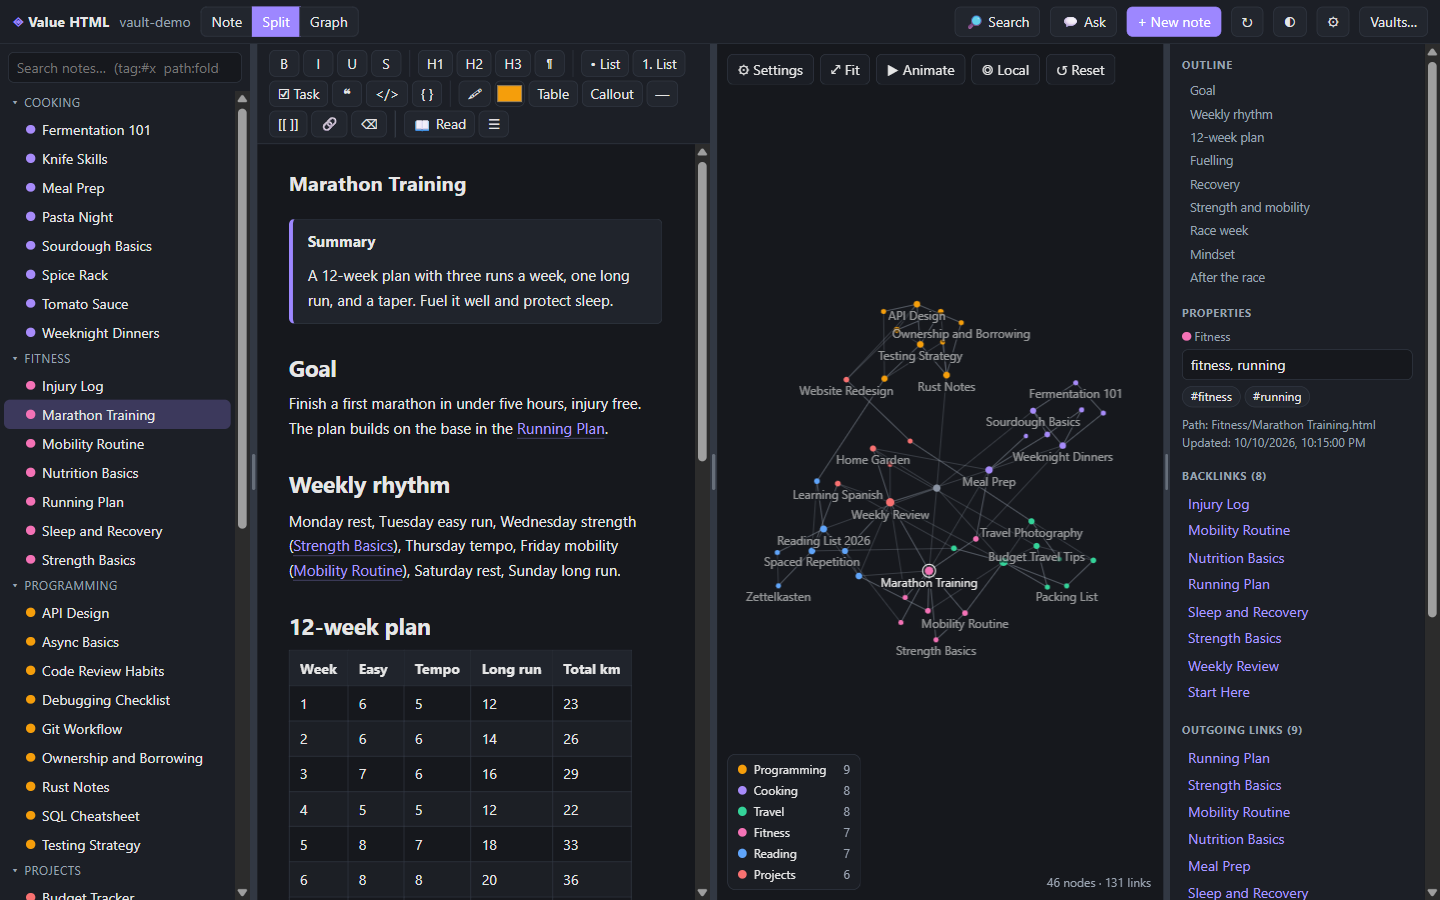
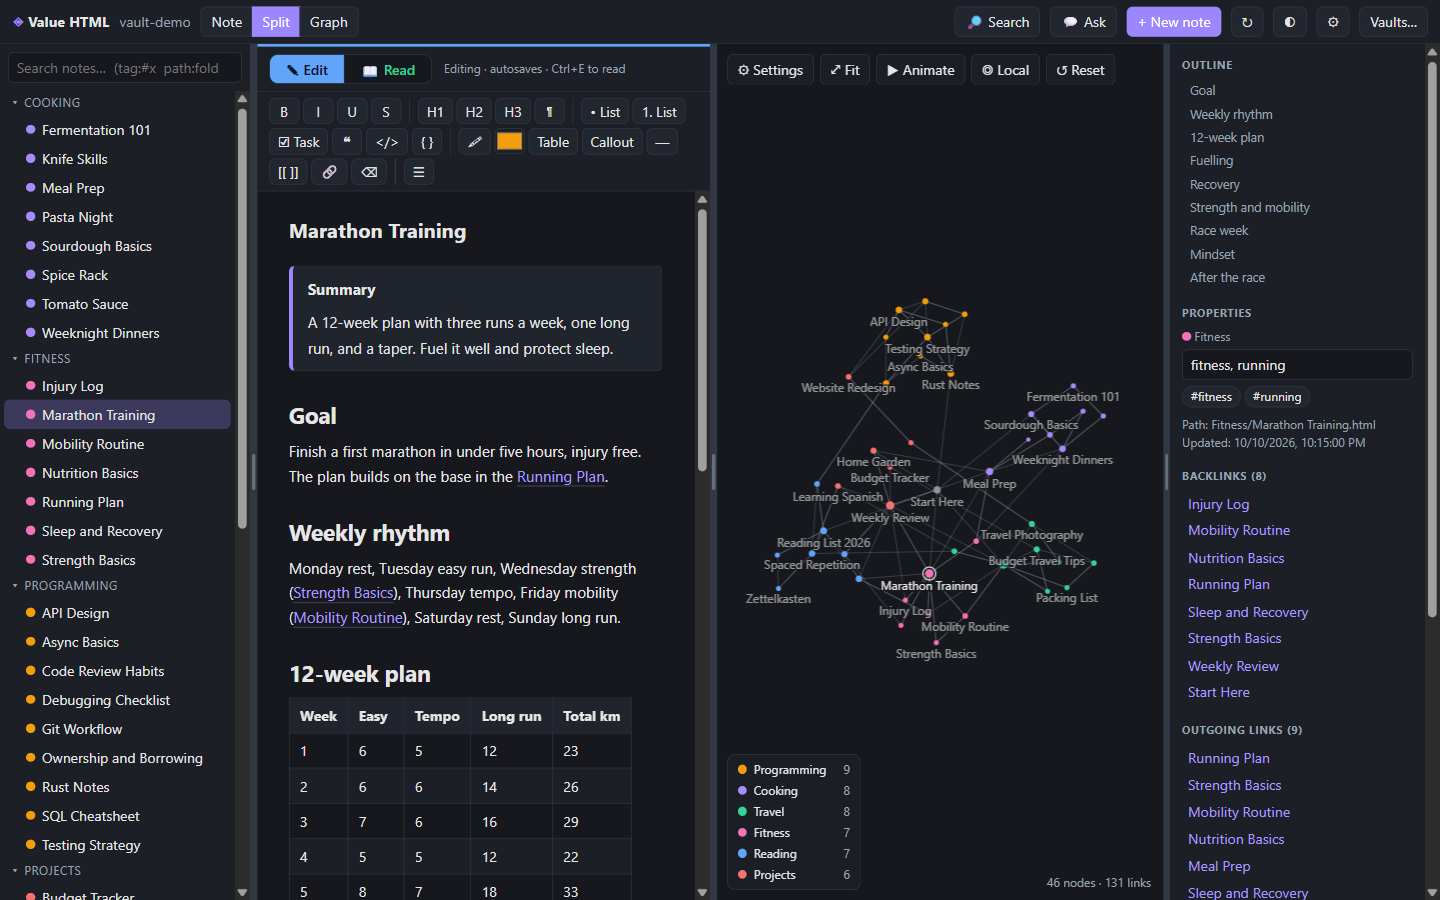
Edit | Read switch: colored, always in the same place
The Read button used to sit at the end of the wrapping toolbar and Edit at the start of the reader bar, so
the way to change mode moved around. Now a segmented Edit | Read switch has its own row at the top of the
note pane, in exactly the same position in both modes (verified to the pixel, also in a narrow pane).

- Edit is blue, Read is green; the lit one is filled, the other shows its own color as text.
- A stripe in the mode's color runs along the top of the pane, and a short hint says what is happening.
- Colors have light and dark variants; text on the lit buttons has >= 4.5:1 contrast in both themes
  (light green darkened to #047857 after measuring 3.8:1 on the first try).
- Works from the keyboard (Ctrl+E, or focus + Enter) and survives a restart.
- README: describe the switch, add an Edit | Read picture, retake the screenshots that showed the old buttons.

Verified in the real window: 22/22 new checks, and the 26-check reading suite still passes.

diff --git a/reading.js b/reading.js
@@ -116,6 +116,16 @@ function updateReadStats() {
   const s = HVFold.readingStats(rdEd().innerText);
   el.textContent = `${s.words.toLocaleString()} words · ~${s.minutes} min`;
 }
+/** Show which mode you are in: the switch, a colored stripe along the top of the pane, and a short hint. */
+function syncModeBar() {
+  const on = RD.on, edit = document.getElementById('mdEdit'), read = document.getElementById('mdRead');
+  if (!edit || !read) return;
+  edit.classList.toggle('on', !on); edit.setAttribute('aria-pressed', String(!on));
+  read.classList.toggle('on', on); read.setAttribute('aria-pressed', String(on));
+  const pane = document.getElementById('notePane');
+  pane.classList.toggle('mode-read', on); pane.classList.toggle('mode-edit', !on);
+  document.getElementById('mdHint').textContent = on ? 'Reading · read-only · Ctrl+E to edit' : 'Editing · autosaves · Ctrl+E to read';
+}
 function setReading(on, { silent = false } = {}) {
   if (on && !RD.on) flushSave();                          // save what you typed before locking the page
   RD.on = on;
@@ -124,7 +134,7 @@ function setReading(on, { silent = false } = {}) {
   document.getElementById('title').readOnly = on;
   if (!on) unfoldAll();                                   // never edit with hidden sections
   if (typeof closeLP === 'function') closeLP();
-  updateReadStats(); renderOutline();
+  syncModeBar(); updateReadStats(); renderOutline();
   try { localStorage.setItem('hv:reading', on ? '1' : '0'); } catch {}
   if (!silent) toast(on ? 'Reading mode · Ctrl+E to edit' : 'Editing', 1400);
 }
@@ -145,7 +155,6 @@ function initReading() {
   const bar = document.createElement('div');
   bar.id = 'readbar';
   bar.innerHTML = `
-    <button id="rdEdit" title="Back to editing (Ctrl+E)">✎ Edit</button><span class="sep"></span>
     <button id="rdSmaller" title="Smaller text">A−</button><button id="rdBigger" title="Larger text">A+</button>
     <select id="rdWidth" title="Line width"><option value="narrow">Narrow</option><option value="medium">Medium</option><option value="wide">Wide</option><option value="full">Full</option></select>
     <select id="rdLh" title="Line spacing"><option value="1.45">Tight</option><option value="1.7">Normal</option><option value="1.95">Relaxed</option></select>
@@ -158,17 +167,28 @@ function initReading() {
   const pop = document.createElement('div'); pop.id = 'outlinePop'; pop.hidden = true;
   document.body.appendChild(pop);
 
-  // edit-mode toolbar gets a way in
+  // The Edit | Read switch lives in its own row at the top of the note pane, so it is in exactly the same
+  // place in both modes (the toolbar below it wraps and the reader bar differs, so neither could hold it).
+  const mb = document.createElement('div');
+  mb.id = 'modebar';
+  mb.innerHTML = `<div class="modeswitch" role="group" aria-label="Mode">
+      <button id="mdEdit" type="button" title="Edit this note (Ctrl+E)">✎ Edit</button>
+      <button id="mdRead" type="button" title="Read this note (Ctrl+E)">📖 Read</button></div>
+    <span id="mdHint"></span>`;
+  document.getElementById('notePane').insertBefore(mb, document.getElementById('toolbar'));
+
+  // the writing toolbar gets an outline button
   const tb = document.getElementById('toolbar');
   const sep = document.createElement('span'); sep.className = 'sep'; tb.appendChild(sep);
-  for (const [label, title, fn] of [['📖 Read', 'Reading mode (Ctrl+E)', () => setReading(true)], ['☰', 'Outline of this note', b => openOutlinePop(b)]]) {
+  for (const [label, title, fn] of [['☰', 'Outline of this note', b => openOutlinePop(b)]]) {
     const b = document.createElement('button'); b.textContent = label; b.title = title;
     b.addEventListener('mousedown', e => e.preventDefault());
     b.addEventListener('click', () => fn(b)); tb.appendChild(b);
   }
 
   const $id = id => document.getElementById(id);
-  $id('rdEdit').onclick = () => setReading(false);
+  $id('mdEdit').onclick = () => setReading(false);
+  $id('mdRead').onclick = () => setReading(true);
   $id('rdSmaller').onclick = () => { RD.prefs.size = Math.max(13, RD.prefs.size - 1); applyReadPrefs(); };
   $id('rdBigger').onclick = () => { RD.prefs.size = Math.min(26, RD.prefs.size + 1); applyReadPrefs(); };
   $id('rdWidth').onchange = e => { RD.prefs.width = e.target.value; applyReadPrefs(); };

diff --git a/features.css b/features.css
@@ -92,3 +92,20 @@ body.reading #editor :is(h1,h2,h3,h4).hv-folded::after{content:" ⋯";color:var(
 .ol-empty{color:var(--muted);font-size:12px;padding:2px 6px}
 #outlinePop{position:fixed;z-index:70;width:min(340px,92vw);max-height:60vh;overflow:auto;background:var(--panel);border:1px solid var(--border);border-radius:10px;box-shadow:0 12px 40px #0009;padding:6px}
 #outlinePop[hidden]{display:none}
+
+/* ---------------------------------------------------------------- Edit | Read switch */
+:root{--mode-edit:#60a5fa;--on-edit:#0b1220;--mode-read:#34d399;--on-read:#052e1b}
+:root[data-theme="light"]{--mode-edit:#2563eb;--on-edit:#ffffff;--mode-read:#047857;--on-read:#ffffff}
+#modebar{display:flex;align-items:center;gap:12px;padding:7px 12px;background:var(--panel);border-bottom:1px solid var(--border);border-top:3px solid var(--border)}
+#notePane.mode-edit #modebar{border-top-color:var(--mode-edit)}
+#notePane.mode-read #modebar{border-top-color:var(--mode-read)}
+.modeswitch{display:inline-flex;flex:none;border:1px solid var(--border);border-radius:9px;overflow:hidden;background:var(--bg)}
+.modeswitch button{border:0;border-radius:0;padding:4px 16px;font-weight:600;background:transparent;white-space:nowrap}
+.modeswitch button+button{border-left:1px solid var(--border)}
+#mdEdit{color:var(--mode-edit)}
+#mdRead{color:var(--mode-read)}
+#mdEdit:hover:not(.on){background:color-mix(in srgb,var(--mode-edit) 16%,transparent)}
+#mdRead:hover:not(.on){background:color-mix(in srgb,var(--mode-read) 16%,transparent)}
+#mdEdit.on{background:var(--mode-edit);color:var(--on-edit)}
+#mdRead.on{background:var(--mode-read);color:var(--on-read)}
+#mdHint{flex:1;min-width:0;color:var(--muted);font-size:12px;white-space:nowrap;overflow:hidden;text-overflow:ellipsis}

diff --git a/README.md b/README.md
@@ -134,7 +134,11 @@ The replay uses each note's creation date. When you [import a folder](#import-fr
 
 ## Reading long notes
 
-Long notes are hard to read in an editor, so there is a reading mode. Press **`Ctrl+E`** (or click **📖 Read**) to switch between writing and reading.
+Long notes are hard to read in an editor, so there is a reading mode. The **Edit | Read** switch at the top of every note changes between the two; **`Ctrl+E`** does the same from the keyboard.
+
+![The Edit | Read switch in both modes: Edit is blue, Read is green, and they never move](docs/images/edit-read-switch.png)
+
+The switch stays in exactly the same place in both modes. The mode you are in is lit (**Edit** in blue, **Read** in green), a matching colored stripe runs along the top of the note, and a short hint underneath tells you what is happening ("Editing · autosaves", "Reading · read-only").
 
 ![Reading mode: reader bar, folded sections and the outline on the right](docs/images/reading-mode.png)
 
